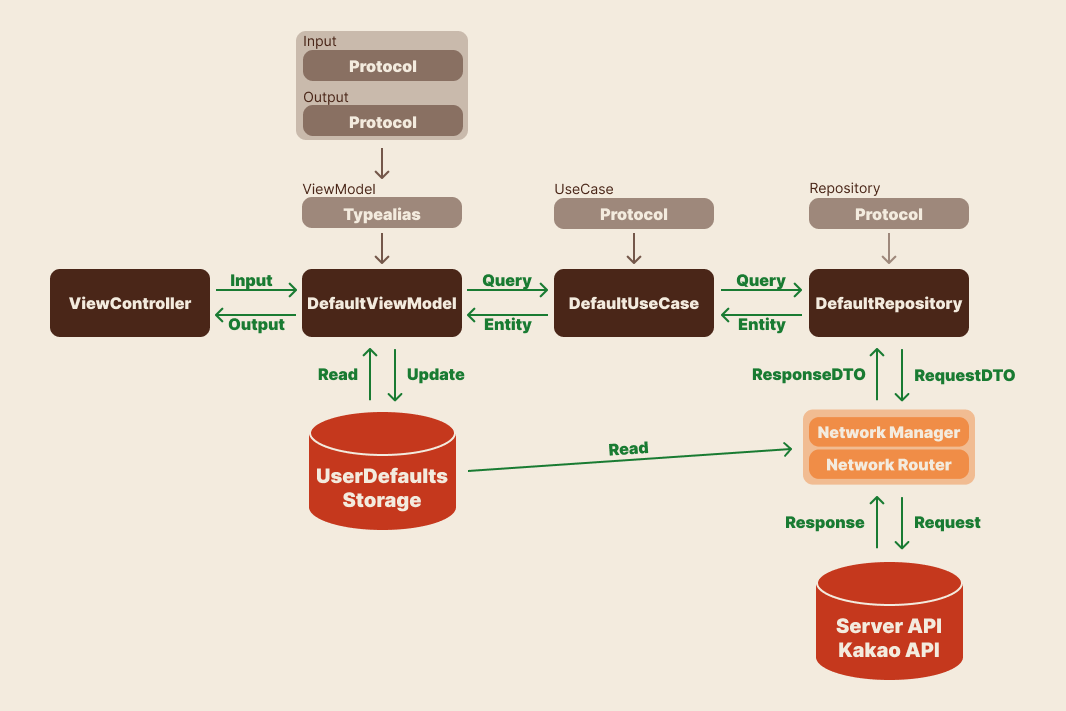
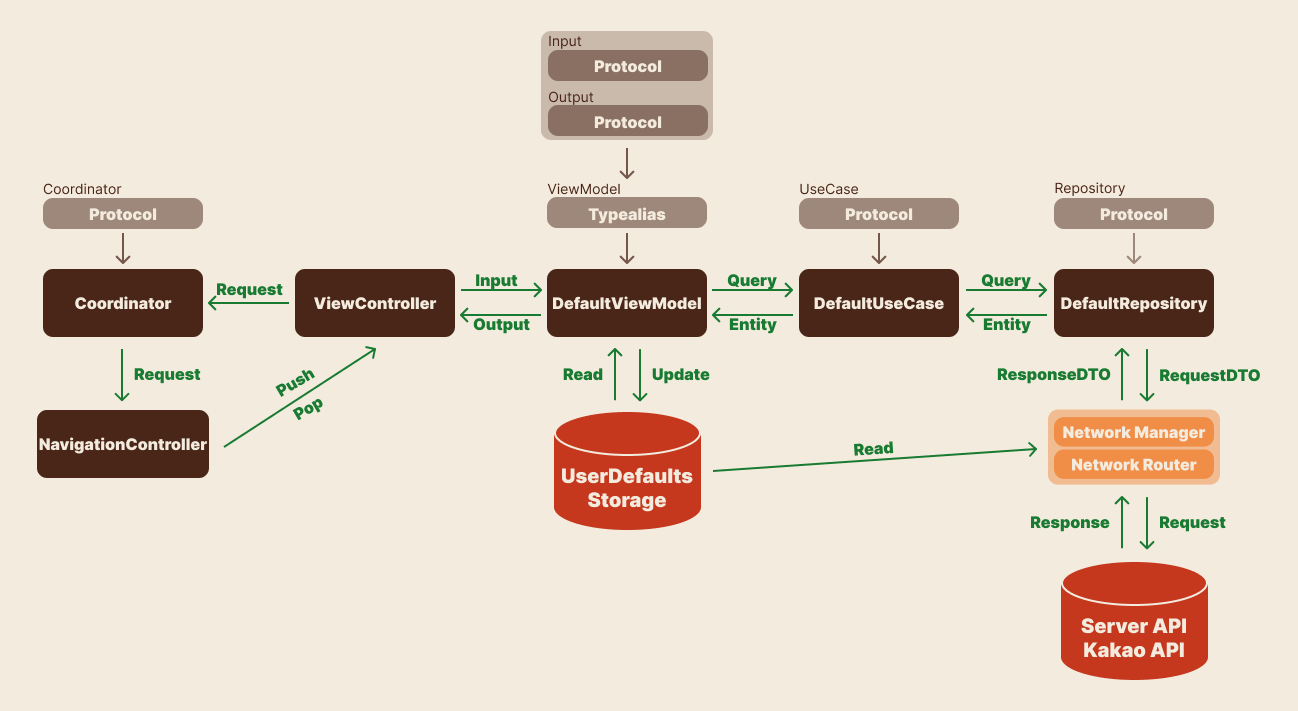
docs: 이미지 수정 및 리드미 수정

diff --git a/README.md b/README.md
@@ -94,11 +94,6 @@
     <img src="./images/App_Architecture.png" align="center" width="80%"> 
 </p>
 
-<p align="center"> 
-    <img src="./images/Coordinator.png" align="center" width="40%">
-    <img src="./images/Secure.png" align="center" width="40%"> 
-</p>
-
 > MVVM(Input/Output) + Clean Architecture
 <details>
 <summary>설명</summary>
